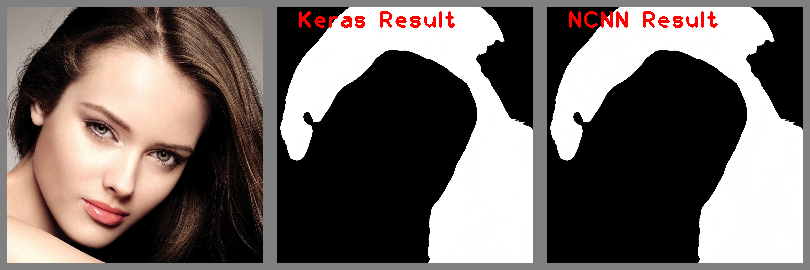
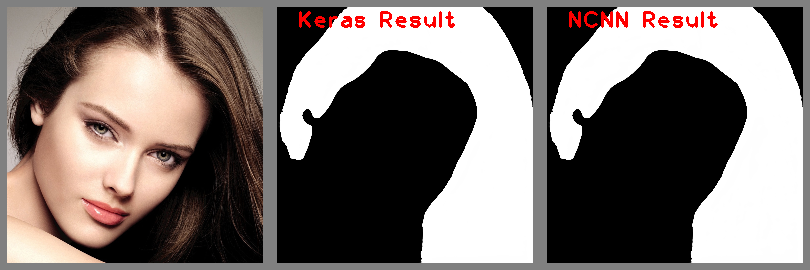
[FIX] Fix pre-processing os the demo sample

diff --git a/model_zoo/segmentation/hair/model_000/demo.py b/model_zoo/segmentation/hair/model_000/demo.py
@@ -18,11 +18,13 @@ src_y, src_x = frame.shape[:2]
 
 
 input_data = cv2.resize(frame, (target_x, target_y))
-mean_value = input_data.reshape((-1, 3)).mean(0)
-inv_std_value = 1. / (1.e-5 + input_data.reshape((-1, 3)).std(0))
+mean_value = input_data.reshape((-1, 3)).mean(0)[::-1]
+inv_std_value = 1. / (1.e-5 + input_data.reshape((-1, 3)).std(0))[::-1]
 
 mat_in = ncnn.Mat.from_pixels_resize(frame, ncnn.Mat.PixelType.PIXEL_RGB, src_x, src_y, target_x, target_y)
 mat_in.substract_mean_normalize(mean_value, inv_std_value)
+
+mean, std = cv2.meanStdDev(frame)
 
 keras_in = (np.array(input_data)[None] - mean_value)*inv_std_value
 keras_out = keras_model.predict(keras_in)[0, ..., 0]
